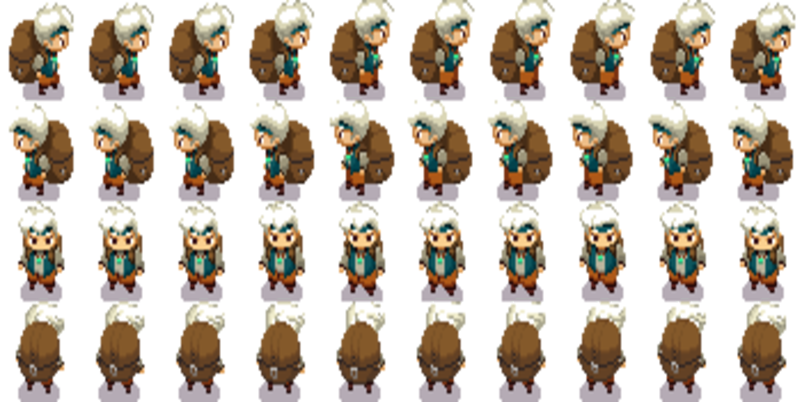
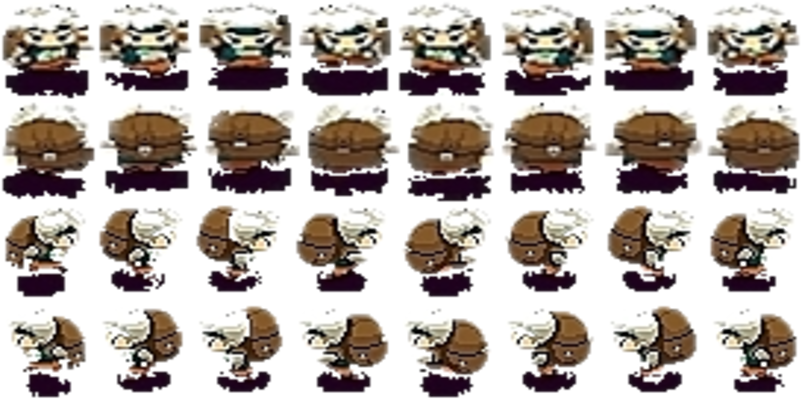
update

diff --git a/Moonlighter/Moonlighter.py b/Moonlighter/Moonlighter.py
@@ -1,9 +1,9 @@
 import game_framework
 from pico2d import *
-import game_world
 
-PIXEL_PER_METER = (10.0 / 0.3)
-RUN_SPEED_KMPH = 20.0
+
+PIXEL_PER_METER = (30.0 / 0.6)
+RUN_SPEED_KMPH = 15.0
 RUN_SPEED_MPM = (RUN_SPEED_KMPH * 1000.0 / 60.0)
 RUN_SPEED_MPS = (RUN_SPEED_MPM / 60.0)
 RUN_SPEED_PPS = (RUN_SPEED_MPS * PIXEL_PER_METER)
@@ -31,28 +31,41 @@ class IdleState:
     def enter(Player, event):
         if event == RIGHT_DOWN:
             Player.velocity += RUN_SPEED_PPS
-            Player.height = 3
+            Player.height = 1
         elif event == LEFT_DOWN:
             Player.velocity -= RUN_SPEED_PPS
-            Player.height = 2
+            Player.height = 0
         elif event == UP_DOWN:
             Player.velocity_y += RUN_SPEED_PPS
-            Player.height = 0
+            Player.height = 2
         elif event == DOWN_DOWN:
             Player.velocity_y -= RUN_SPEED_PPS
+            Player.height = 3
+        elif event == RIGHT_UP:
+            Player.velocity -= RUN_SPEED_PPS
             Player.height = 1
+        elif event == LEFT_UP:
+            Player.velocity += RUN_SPEED_PPS
+            Player.height = 0
+        elif event == UP_UP:
+            Player.velocity_y -= RUN_SPEED_PPS
+            Player.height = 2
+        elif event == DOWN_UP:
+            Player.velocity_y += RUN_SPEED_PPS
+            Player.height = 3
+
 
     def exit(Player, event):
         pass
 
     def do(Player):
-        Player.frame = (Player.frame + FRAMES_PER_ACTION * ACTION_PER_TIME * game_framework.frame_time) % 10
+        Player.frame = (Player.frame + FRAMES_PER_ACTION * ACTION_PER_TIME * game_framework.frame_time) % 8
 
     def draw(Player):
         if Player.velocity == 0 and Player.velocity_y == 0:
-            Player.image.clip_draw(int(Player.frame) * 78, 100, 88, 100, Player.x, Player.y)
+            Player.image.clip_draw(int(Player.frame) * 100, 100, 100, 100, Player.x, Player.y)
         else:
-            Player.image.clip_draw(int(Player.frame) * 78, 100 * Player.height, 88, 100, Player.x, Player.y)
+            Player.image.clip_draw(int(Player.frame) * 100, 100 * Player.height, 100, 100, Player.x, Player.y)
 
 
 class Runstate:
@@ -60,45 +73,56 @@ class Runstate:
     def enter(Player, event):
         if event == RIGHT_DOWN:
             Player.velocity += RUN_SPEED_PPS
-            Player.height = 3
+            Player.height = 1
         elif event == LEFT_DOWN:
             Player.velocity -= RUN_SPEED_PPS
-            Player.height = 2
+            Player.height = 0
         elif event == UP_DOWN:
             Player.velocity_y += RUN_SPEED_PPS
-            Player.height = 0
+            Player.height = 2
         elif event == DOWN_DOWN:
             Player.velocity_y -= RUN_SPEED_PPS
-            Player.height = 1
+            Player.height = 3
         elif event == RIGHT_UP:
             Player.velocity -= RUN_SPEED_PPS
-            Player.height = 3
+            Player.height = 1
         elif event == LEFT_UP:
             Player.velocity += RUN_SPEED_PPS
-            Player.height = 2
+            Player.height = 0
         elif event == UP_UP:
             Player.velocity_y -= RUN_SPEED_PPS
-            Player.height = 0
+            Player.height = 2
         elif event == DOWN_UP:
             Player.velocity_y += RUN_SPEED_PPS
-            Player.height = 1
+            Player.height = 3
+        Player.dir_x = int(Player.velocity)
+        Player.dir_y = int(Player.velocity_y)
 
-        Player.dir = clamp(-1, Player.velocity, 1)
 
     def exit(Player, event):
         pass
 
     def do(Player):
-        Player.frame = (Player.frame + FRAMES_PER_ACTION * ACTION_PER_TIME * game_framework.frame_time) % 10
+        Player.frame = (Player.frame + FRAMES_PER_ACTION * ACTION_PER_TIME * game_framework.frame_time) % 8
         Player.x += Player.velocity * game_framework.frame_time
         Player.y += Player.velocity_y * game_framework.frame_time
-        Player.x = clamp(25, Player.x, 500)
+        Player.x = clamp(25, Player.x, 900)
+        Player.y = clamp(30, Player.y, 700)
 
     def draw(Player):
         if Player.velocity == 0 and Player.velocity_y == 0:
-            Player.image.clip_draw(int(Player.frame) * 78, 100, 88, 100, Player.x, Player.y)
+            Player.image.clip_draw(int(Player.frame) * 100, 100, 100, 100, Player.x, Player.y)
         else:
-            Player.image.clip_draw(int(Player.frame) * 78, 100 * Player.height, 88, 100, Player.x, Player.y)
+            Player.image.clip_draw(int(Player.frame) * 100, 100 * Player.height, 100, 100, Player.x, Player.y)
+
+
+next_state_table = {
+    IdleState: {RIGHT_UP: Runstate, LEFT_UP: Runstate, UP_UP: Runstate, DOWN_UP: Runstate,
+                RIGHT_DOWN: Runstate, LEFT_DOWN: Runstate, UP_DOWN: Runstate, DOWN_DOWN: Runstate},
+
+    Runstate: {RIGHT_UP: IdleState, LEFT_UP: IdleState, UP_UP: IdleState, DOWN_UP: IdleState,
+               RIGHT_DOWN: IdleState, LEFT_DOWN: IdleState, UP_DOWN: IdleState, DOWN_DOWN: IdleState}
+}
 
 
 class Player:
@@ -107,7 +131,8 @@ class Player:
         self.image = load_image('Player.png')
         self.x, self.y = 200, 300
         self.frame = 0
-        self.dir = 1
+        self.dir_x = 1
+        self.dir_y = 1
         self.velocity = 0
         self.velocity_y = 0
         self.event_que = []
@@ -135,10 +160,3 @@ class Player:
             self.add_event(key_event)
 
 
-next_state_table = {
-    IdleState: {RIGHT_UP: Runstate, LEFT_UP: Runstate, UP_UP: Runstate, DOWN_UP: Runstate,
-                RIGHT_DOWN: Runstate, LEFT_DOWN: Runstate, UP_DOWN: Runstate, DOWN_DOWN: Runstate},
-
-    Runstate: {RIGHT_UP: IdleState, LEFT_UP: IdleState, UP_UP: IdleState, DOWN_UP: IdleState,
-               RIGHT_DOWN: IdleState, LEFT_DOWN: IdleState, UP_DOWN: IdleState, DOWN_DOWN: IdleState}
-}

diff --git a/Moonlighter/game_framework.py b/Moonlighter/game_framework.py
@@ -9,7 +9,6 @@ class GameState:
         self.draw = state.draw
 
 
-
 class TestGameState:
 
     def __init__(self, name):
@@ -37,7 +36,6 @@ class TestGameState:
         print("State [%s] draw" % self.name)
 
 
-
 running = None
 stack = None
 
@@ -53,14 +51,12 @@ def change_state(state):
     state.enter()
 
 
-
 def push_state(state):
     global stack
     if (len(stack) > 0):
         stack[-1].pause()
     stack.append(state)
     state.enter()
-
 
 
 def pop_state():
@@ -76,10 +72,10 @@ def pop_state():
         stack[-1].resume()
 
 
-
 def quit():
     global running
     running = False
+
 
 import time
 frame_time = 0.0
@@ -99,9 +95,9 @@ def run(start_page):
         stack[-1].update()
         stack[-1].draw()
     # repeatedly delete the top of the stack
-    frame_time = time.time() - current_time
-    frame_rate = 1.0/frame_time
-    current_time += frame_time
+        frame_time = time.time() - current_time
+        frame_rate = 1.0 / frame_time
+        current_time += frame_time
     while (len(stack) > 0):
         stack[-1].exit()
         stack.pop()
@@ -110,7 +106,6 @@ def run(start_page):
 def test_game_framework():
     start_page = TestGameState('start_page')
     run(start_page)
-
 
 
 if __name__ == '__main__':

diff --git a/Moonlighter/_main.py b/Moonlighter/_main.py
@@ -45,8 +45,9 @@ def handle_events():
             player.handle_event(event)
 
 def update():
-    for game_object in game_world.all_objects():
-        game_object.update()
+
+        for game_object in game_world.all_objects():
+            game_object.update()
 
 def draw():
     clear_canvas()

diff --git a/Moonlighter/mygame.py b/Moonlighter/mygame.py
@@ -5,4 +5,4 @@ import start_page
 import _main
 
 pico2d.open_canvas(1200,720)
-game_framework.run(start_page)
+game_framework.run(_main)
